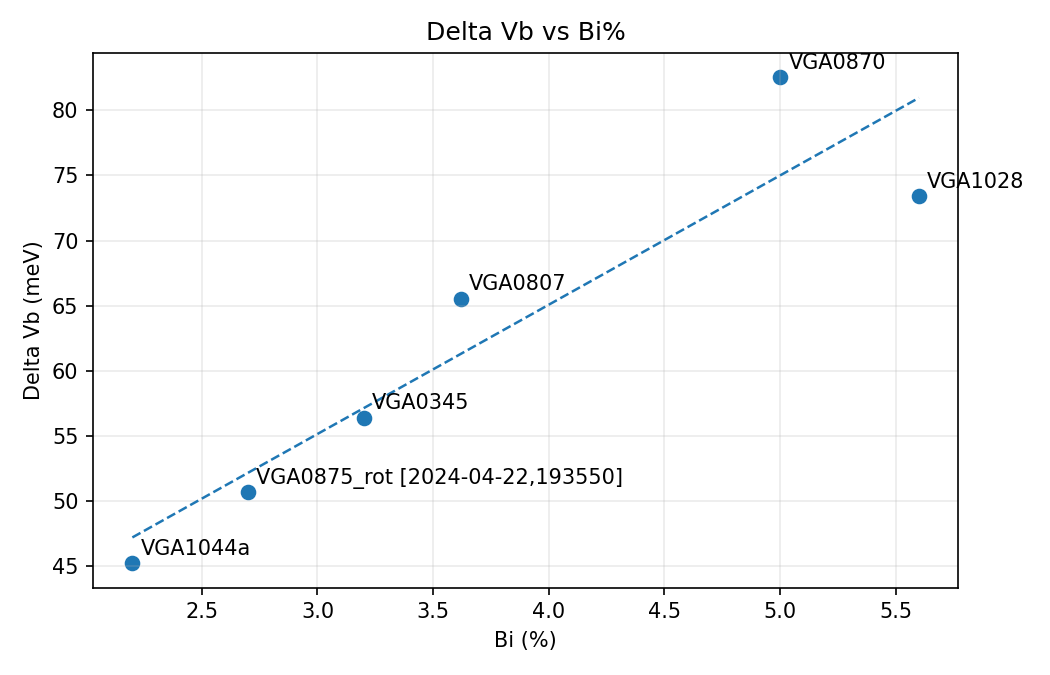
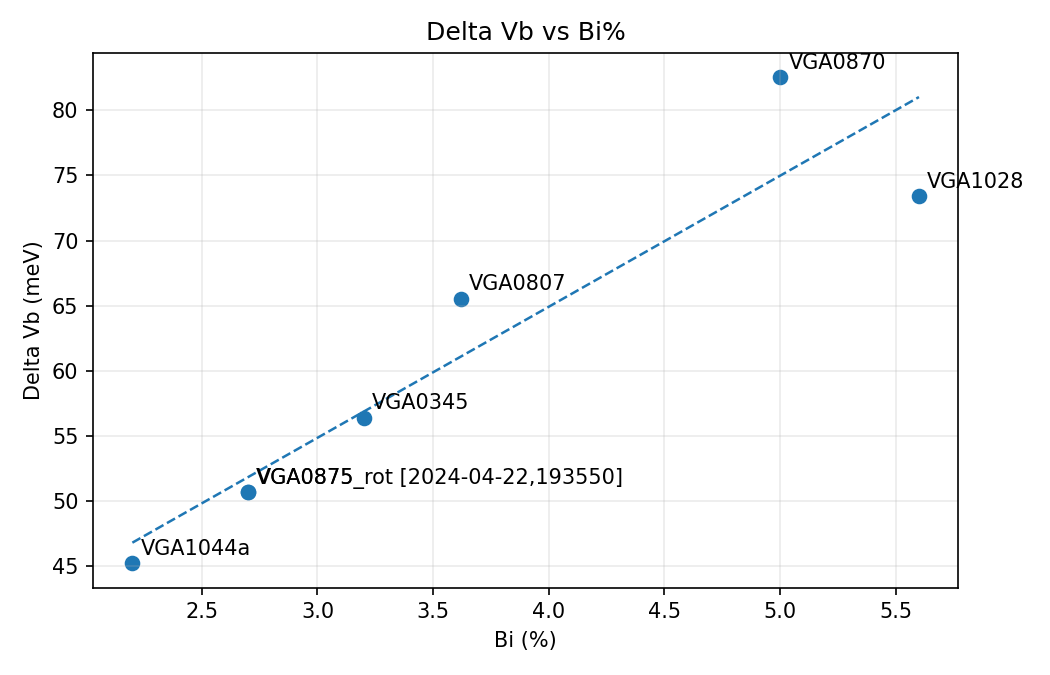
Update GaAsBi results database

diff --git a/README.md b/README.md
@@ -68,7 +68,7 @@ measurement files, unless there is a deliberate reason to share them.
 <!-- comparison-plots:start -->
 ## Current Comparison Plots
 
-Records in database: `6`
+Records in database: `7`
 
 These plots are regenerated by the app from `selected_results.jsonl`.
 